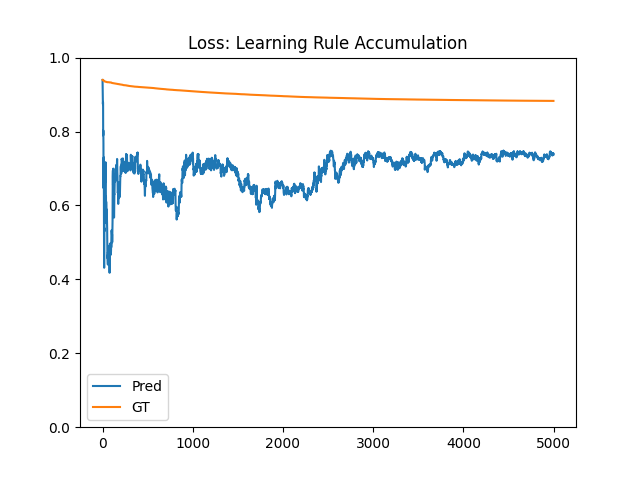
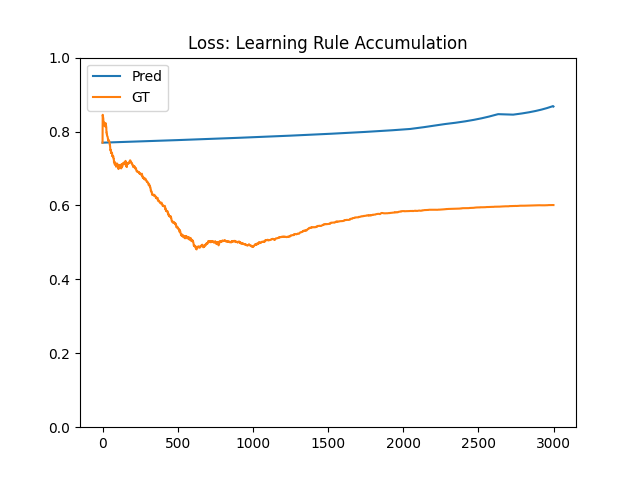
4/10 meeting updated code

diff --git a/multi-oja/multi_oja_gd.py b/multi-oja/multi_oja_gd.py
@@ -11,14 +11,17 @@ N_y = 4
 M = torch.normal(torch.zeros((N_x, N_x)), torch.ones((N_x, N_x)))
 Q, _ = torch.linalg.qr(M)
 Q = Q.to(gpu)
-D = torch.diag(torch.exp(-torch.arange(N_x))).to(gpu)
+#D = torch.diag(torch.exp(-torch.arange(N_x))).to(gpu)
+# Trying linearly decreasing eigenvalues to make it easier to learn multiple PCs
+# By increasing these eigenvalues we also increase variance of input
+D = torch.diag(torch.linspace(1, 0.1, N_x) / torch.sum(torch.linspace(1, 0.1, N_x))).to(gpu)
 Sigma = Q @ D @ Q.t()
 r_dist = torch.distributions.multivariate_normal.MultivariateNormal(torch.zeros(N_x, device=gpu), Sigma)
 
 W_FF = torch.normal(torch.zeros(N_y, N_x), torch.ones(N_y, N_x))
 W_FF = W_FF.to(gpu)
-W_FF.requires_grad_(True)
-sigma_R = 0.1
+#W_FF.requires_grad_(True)
+sigma_R = 0.01
 W_R = torch.normal(torch.zeros(N_y, N_y), torch.ones(N_y, N_y) * ((sigma_R ** 2) / N_y))
 W_R = W_R.to(gpu)
 W_R.requires_grad_(True)
@@ -26,12 +29,15 @@ W_R.requires_grad_(True)
 lr = 1e-1
 n_train = 3000
 alpha_start = 1e-2
-alpha_end = 1e-2
+alpha_end = 1e-3
 # Exponential decay lr starting at alpha_start and ending at alpha_end
 alphas = alpha_start*torch.exp(torch.arange(n_train) * (np.log(alpha_end / alpha_start) / (n_train-1)))
 #alphas = ((alpha_end - alpha_start) / n_train) * torch.arange(n_train) + alpha_start
-optim_FF = torch.optim.Adam([W_FF], lr=lr)
-optim_R = torch.optim.Adam([W_R], lr=lr)
+#optim_FF = torch.optim.Adam([W_FF], lr=lr)
+#optim_R = torch.optim.Adam([W_R], lr=lr)
+# No momentum so just vanilla gradient descent
+#optim_FF = torch.optim.SGD([W_FF], lr=lr, momentum=0.)
+optim_R = torch.optim.SGD([W_R], lr=lr, momentum=0.)
 
 losses = torch.empty((n_train,))
 W_ff = torch.empty(n_train, N_y, N_x)
@@ -64,31 +70,42 @@ for i in range(n_train):
     # # transposing and unsqueezing to match required bmm format
     # a = torch.bmm(norm_W.unsqueeze(1), norm_pci.unsqueeze(2)).squeeze(1, 2)
 
-    lambda_ff = 1
-    lambda_r = 5
-    l1reg_ff = torch.mean(torch.sum(W_FF ** 2) / (N_y*N_x))
-    l1reg_r = torch.mean(torch.sum(W_R ** 2) / (N_x*N_x))
+    # lambda_ff = 1
+    # lambda_r = 5
+    # l2reg_ff = torch.mean(torch.sum(W_FF ** 2) / (N_y*N_x))
     # loss = torch.mean((Y-Y_hat) ** 2) + lambda_ff*l1reg_ff + lambda_r*l1reg_r
     # for each PC, find the best-aligned post neuron
-    PCs2output = torch.zeros((pc_i.shape[0]), dtype=torch.int, requires_grad=False)
-    for ii in range(pc_i.shape[0]):
-        with torch.no_grad():
-            PCs2output[ii] = torch.argmax(W_tilde @ pc_i[ii, :] * 1 / (torch.linalg.vector_norm(W_tilde, dim=1)))
+    #PCs2output = torch.zeros((pc_i.shape[0]), dtype=torch.int, requires_grad=False)
+    PCs2output = torch.arange(pc_i.shape[0])
+    # for ii in range(pc_i.shape[0]):
+    #     with torch.no_grad():
+    #         PCs2output[ii] = torch.argmax(W_tilde @ pc_i[ii, :] * 1 / (torch.linalg.vector_norm(W_tilde, dim=1)))
+    # With this best-aligned neuron, how much it overlaps with its respective PC
+    # If we have multiple neurons encoding the same PC, then there would be a PC which is not represented well by any neuron
+    # And this would be reflected in the loss
     overlaps = torch.diag((W_tilde[PCs2output, :] @ pc_i.t()) * 1 / torch.linalg.vector_norm(W_tilde[PCs2output, :], dim=1))
-    loss = 1 - torch.mean(torch.abs(overlaps))
-    print(f"Iter {i}: {loss.item()}, overlaps: {overlaps}")
+    
+    lambda_r = 10
+    l2reg_r = torch.sum(W_R ** 2) / (N_x*N_x)
+    loss = 1 - torch.mean(torch.abs(overlaps)) + lambda_r*l2reg_r
+    
+    print(f"Iter {i}: {loss.item()}, overlaps: {overlaps}, best-aligned: {PCs2output}")
     losses[i] = loss.item()
     W_ff[i] = W_FF
     W_r[i] = W_R
     pre[i] = X
     post[i] = Y_hat
 
-    optim_FF.zero_grad()
+    #optim_FF.zero_grad()
     optim_R.zero_grad()
     
     loss.backward()
 
-    optim_FF.step()
+    with torch.no_grad():
+        delta_W_FF = alphas[i] * Y_hat.unsqueeze(1) * (X.unsqueeze(0) - Y_hat.unsqueeze(1) * W_FF)
+        W_FF += delta_W_FF
+
+    #optim_FF.step()
     optim_R.step()
 
 

diff --git a/multi-oja/multi_oja_powerseries.py b/multi-oja/multi_oja_powerseries.py
@@ -28,9 +28,9 @@ W_R = torch.normal(torch.zeros(N_y, N_y), torch.ones(N_y, N_y) * ((sigma_R ** 2)
 W_R = W_R.to(gpu)
 
 n_train = 3000
-alpha_start = 1e-2
-alpha_end = 1e-2
-alpha_hebb_start = 1e-3
+alpha_start = 1e-1
+alpha_end = 1e-4
+alpha_hebb_start = 1e-1
 alpha_hebb_end = 1e-3
 # Exponential decay lr starting at alpha_start and ending at alpha_end
 alphas = alpha_start*torch.exp(torch.arange(n_train) * (np.log(alpha_end / alpha_start) / (n_train-1)))
@@ -121,10 +121,10 @@ def prepare_train_data(alphas, num_intervals=5, epoch_subset=None, fromwhere="gd
     oja_train_labels = []
     ahebb_train_samples = []
     ahebb_train_labels = []
-    manual_int = n_train
+    manual_int = num_intervals
     b = torch.arange(manual_int)
-    num_intervals = manual_int-1
-    for i in range(num_intervals):
+    #num_intervals = manual_int-1
+    for i in range(num_intervals-1):
         start, end = b[i], b[i+1]
         #start, end = loss_intervals[i]
         pre, post, Wff_0, Wff_f, WR_0, WR_f = load_features(start, end, fromwhere=fromwhere)
@@ -246,7 +246,7 @@ def accum_rule(reg_oja, reg_ahebb, oja_features_stats, ahebb_features_stats, lea
         # Loss from using actual Oja + anti-Hebbian rule
         loss_gt = 1-torch.mean(torch.abs(overlaps_gt))
 
-        print(f"Iter {i}: {loss.item()}")
+        print(f"Iter {i}: {loss.item()}, overlaps: {overlaps}")
         losses[i] = loss.item()
         losses_gt[i] = loss_gt.item()
         
@@ -289,14 +289,17 @@ def compare_coefs(degree, numvars, coef):
     return fig
 
 
-loss_intervals, oja_features_X_stats, oja_features_Y_stats, ahebb_features_X_stats, ahebb_features_Y_stats = prepare_train_data(alphas, num_intervals=200, epoch_subset=None, fromwhere="gt")
+loss_intervals, oja_features_X_stats, oja_features_Y_stats, ahebb_features_X_stats, ahebb_features_Y_stats = prepare_train_data(
+    alphas, num_intervals=n_train, epoch_subset=None, fromwhere="gd")
 oja_features, oja_X_mu, oja_X_std = oja_features_X_stats
 oja_labels, oja_Y_mu, oja_Y_std = oja_features_Y_stats
 ahebb_features, ahebb_X_mu, ahebb_X_std = ahebb_features_X_stats
 ahebb_labels, ahebb_Y_mu,ahebb_Y_std = ahebb_features_Y_stats
 #print(f"Loss intervals: {loss_intervals}")
-reg_oja = fit_powerseries(oja_features, oja_labels, alpha=1e-1)
-reg_ahebb = fit_powerseries(ahebb_features, ahebb_labels, alpha=5e-1)
+reg_oja = fit_powerseries(oja_features, oja_labels, alpha=1e-3) # 1e-1
+reg_ahebb = fit_powerseries(ahebb_features, ahebb_labels, alpha=1e-3) #5e-1
+plt.plot(ahebb_labels)
+plt.savefig("w_r.png")
 print(f"(Predicted) Oja Coefs: {reg_oja.coef_}")
 print(f"(Predicted) Anti-Hebbian Coefs: {reg_ahebb.coef_}")
 print(f"Oja R^2: {reg_oja.score(oja_features, oja_labels)}")
@@ -310,10 +313,12 @@ fig.suptitle("Anti-Hebbian Linear Predictor Coefficients")
 plt.savefig("anti_hebbian_coefs.png")
 plt.close()
 
+exit(0)
+
 oja_features_stats = (oja_X_mu, oja_X_std, oja_Y_mu, oja_Y_std)
 ahebb_features_stats = (ahebb_X_mu, ahebb_X_std, ahebb_Y_mu, ahebb_Y_std)
 losses, losses_gt = accum_rule(reg_oja, reg_ahebb, oja_features_stats, ahebb_features_stats, 
-                                learning_rate_scale=1, num_steps=n_train * 1, alpha_mode="same", sample_new_cov=True)
+                                learning_rate_scale=1, num_steps=n_train * 1, alpha_mode="none", sample_new_cov=True)
 plt.plot(losses, color="tab:blue", label="Pred")
 plt.plot(losses_gt, color="tab:orange", label="GT")
 plt.ylim([0, 1])

diff --git a/multi-oja/multi_oja_gt.py b/multi-oja/multi_oja_gt.py
@@ -63,6 +63,7 @@ for i in range(n_train):
     PCs2output = torch.zeros((pc_i.shape[0]), dtype=torch.int, requires_grad=False)
     for ii in range(pc_i.shape[0]):
         with torch.no_grad():
+            # Which PC had the largest overlap with each of the encoded output weights
             PCs2output[ii] = torch.argmax(W_tilde @ pc_i[ii, :] * 1 / (torch.linalg.vector_norm(W_tilde, dim=1)))
     overlaps = torch.diag((W_tilde[PCs2output, :] @ pc_i.t()) * 1 / torch.linalg.vector_norm(W_tilde[PCs2output, :], dim=1))
     loss = 1 - torch.mean(torch.abs(overlaps))
